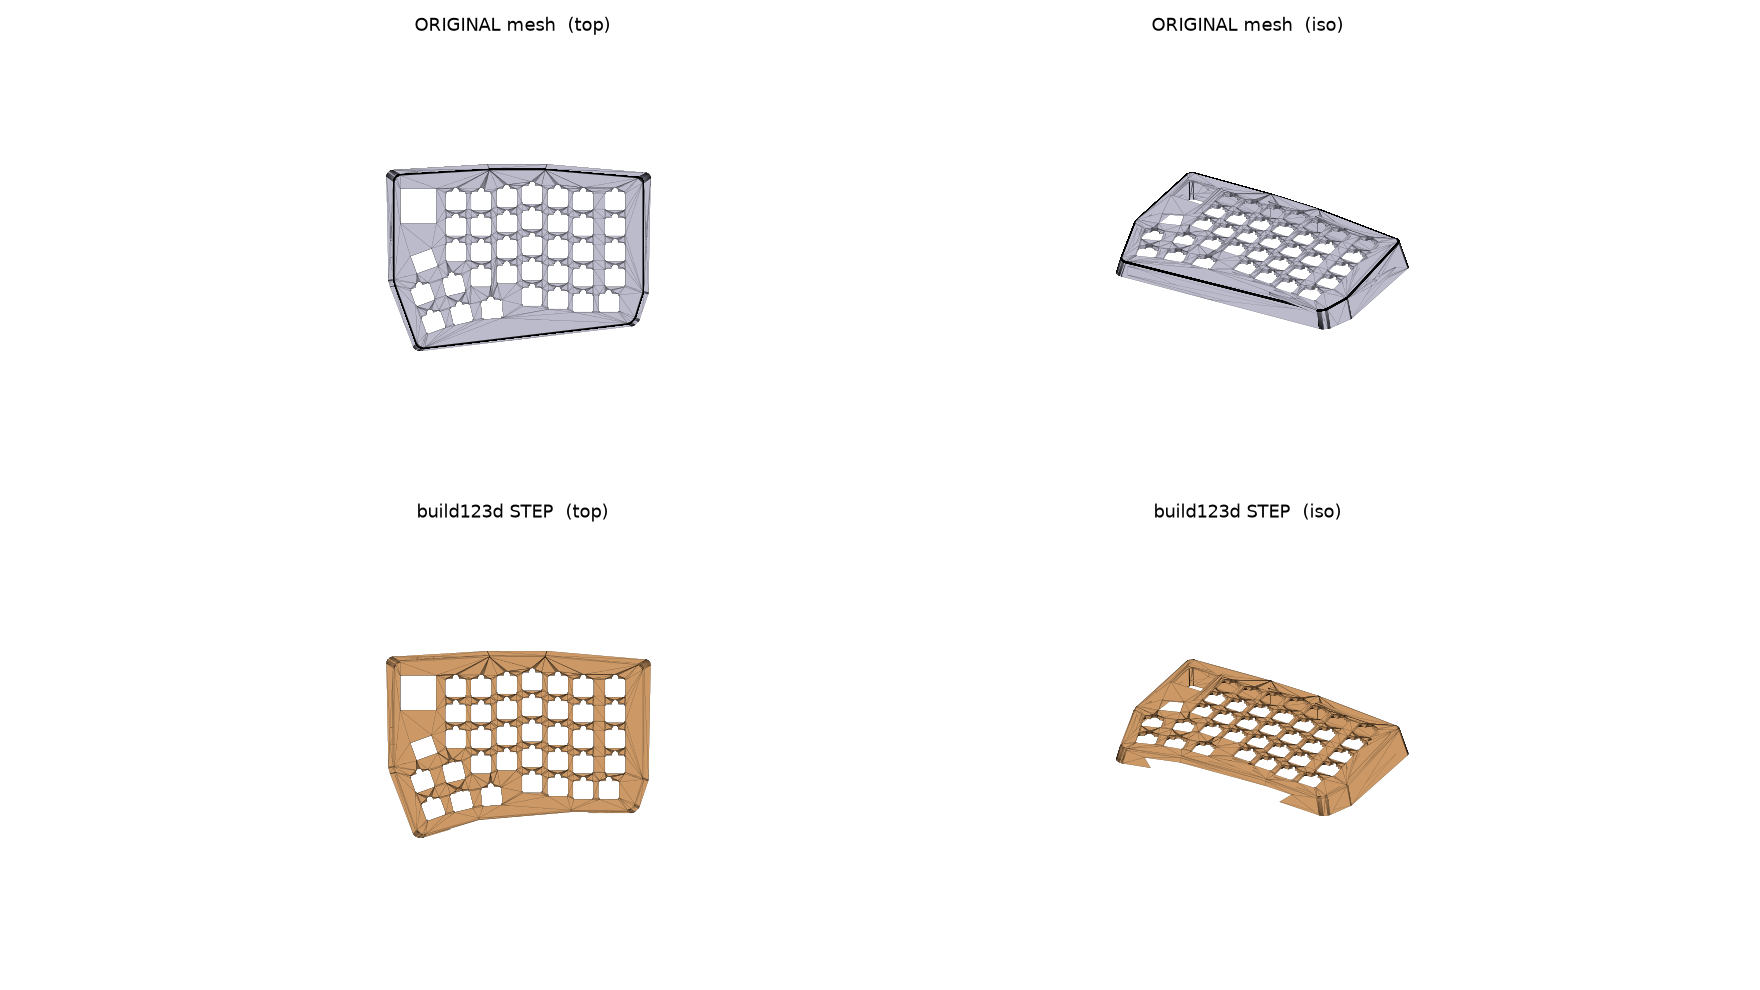
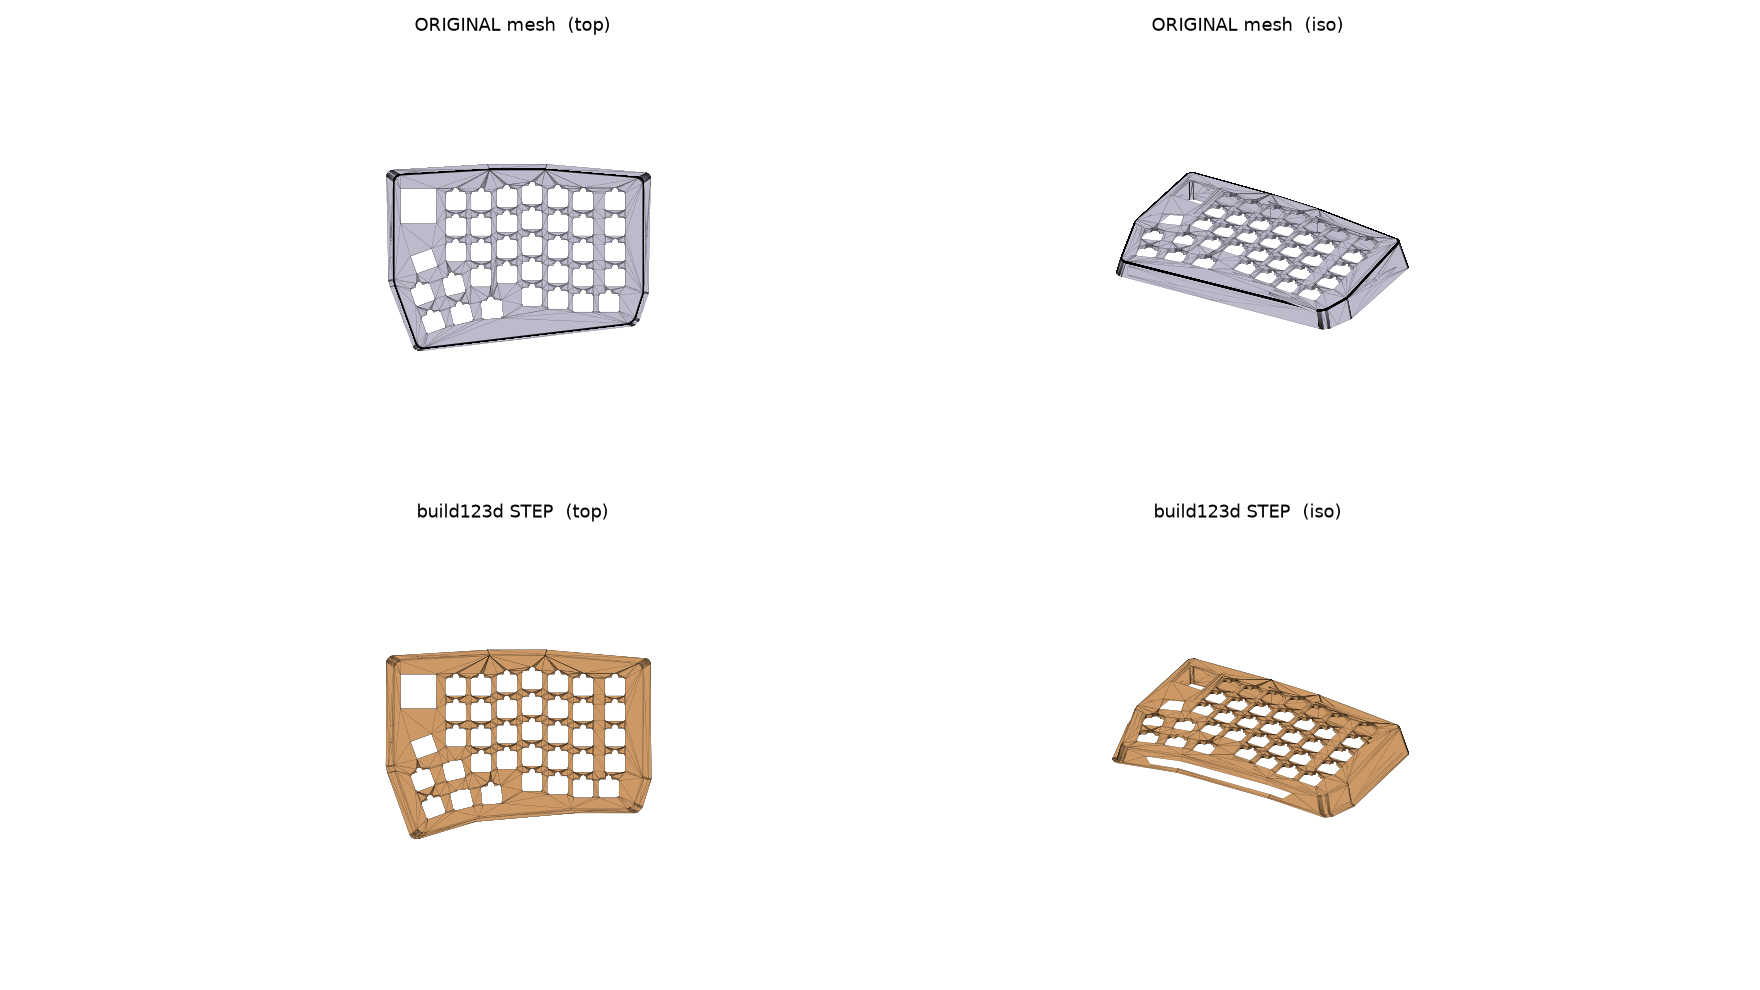
case/step: add bottom-plate rabbet (lip + inner ledge) to the STEP
Reproduces the post-processing feature present in parts/metal-case-*.step but
NOT in the .scad: around the wedge-cut bottom opening, an outer lip drops below
the wedge plane (the "small extrusion perpendicular to the cut-off") and an
inner ledge is recessed above it (the "cut-out rim") to seat a ~2 mm bottom
plate.

- case_model.py: add_bottom_rabbet() flattens the slanted wedge face, extrudes
  the outer-wall silhouette band down (LIP_DROP) for the lip and recesses the
  inner region up (RABBET_UP) for the ledge, then rotates back. Parametric
  (WITH_BOTTOM_RABBET / LIP_DROP / RABBET_UP / LIP_W); set False for the pure
  SCAD reproduction.
- build.py: build right once and mirror for left (avoids a second full build).
- README: document the rabbet, its measured dims, and the back-edge limitation.

Verified vs the reference: lip bottom -7.18 (ref -7.19), height 25.68 mm
(ref 26.05). Both sides validate PASS (valid B-Rep, 458 curved faces, 3e-7 mm
tolerance, 1324 faces).

Claude-Session: https://claude.ai/code/session_015tyAeCRWQVAqgwYfPjdQFr

Changed region(s): [[0.2188, 0.6364, 0.375, 0.8485], [0.625, 0.6667, 0.8125, 0.8182]]

diff --git a/case/step/case_model.py b/case/step/case_model.py
@@ -6,7 +6,8 @@ Only the ACTIVE geometry of right_side_modular() is reproduced (the large
 commented-out FDM block is not part of the metal case).  hull()->loft,
 offset(r=)->real 2D offsets with arc joints (true cylinder corners).
 """
-import contextlib, io
+import contextlib, io, math
+import numpy as np
 from build123d import *
 
 # ---- parameters (from the SCAD header) ----------------------------------
@@ -16,6 +17,18 @@ FLOOR    = 2.0
 CLEAR    = 0.15
 PCB_EDGE_H = 9.5
 X_SHIFT  = 5.0          # main(): translate([5,0,0]) right_case()
+
+# ---- bottom-plate rabbet (POST-PROCESSING feature, NOT in the .scad) -----
+# The reference parts/metal-case-*.step adds, around the wedge-cut bottom opening,
+# a rabbet that seats a bottom plate: the outer wall extends LIP_DROP below the
+# wedge plane (the "small extrusion perpendicular to the cut-off") and an inner
+# ledge sits RABBET_UP above it (the "cut-out rim"), giving a LIP_DROP+RABBET_UP
+# (~2 mm) pocket for the plate.  Measured from the reference (mine frame): wedge
+# bottom -6.21, lip bottom -7.19, ledge -5.1.  All parametric — edit freely.
+WITH_BOTTOM_RABBET = True
+LIP_DROP  = 1.0         # how far the outer lip drops below the wedge plane
+RABBET_UP = 1.0         # how far the inner ledge is recessed above the wedge plane
+LIP_W     = 4.0         # width of the outer lip band
 
 SVG = lambda n: "../" + n
 
@@ -149,7 +162,61 @@ def build_right():
     holes = Compound(led + swf + usb).moved(Location((-92, -72, 1)))
     part = part - holes
 
-    return part.moved(Location((X_SHIFT, 0, 0)))   # main(): translate([5,0,0])
+    part = part.moved(Location((X_SHIFT, 0, 0)))   # main(): translate([5,0,0])
+    if WITH_BOTTOM_RABBET:
+        part = add_bottom_rabbet(part)
+    return part
+
+
+def add_bottom_rabbet(part):
+    """Add the bottom-plate rabbet (lip + inner ledge) around the wedge-cut opening.
+
+    Works in a frame where the (slanted) wedge bottom is flattened horizontal, so the
+    lip/ledge are simple vertical extrudes, then rotates back. The tool footprint is
+    the clean outer-wall silhouette (scale 1.08 pcb_shape); the outer wall is close to
+    vertical near the bottom so this tracks the real opening on the low/front edge (the
+    primary plate seat). Returns the part unchanged on any failure.
+    """
+    try:
+        # locate the wedge bottom face (lowest downward-facing planar face)
+        best = None
+        for f in part.faces():
+            try:
+                n = f.normal_at()
+            except Exception:
+                continue
+            if n.Z < -0.3:
+                z = f.bounding_box().min.Z
+                if best is None or z < best[0]:
+                    best = (z, f, n)
+        if best is None:
+            return part
+        _, _, bn = best
+        t = np.array([0, 0, -1.0]); n = np.array([bn.X, bn.Y, bn.Z]); n = n / np.linalg.norm(n)
+        axv = np.cross(n, t); s = np.linalg.norm(axv)
+        ang = math.degrees(math.atan2(s, n @ t))
+        axv = axv / s if s > 1e-9 else np.array([1.0, 0, 0])
+        Rax = Axis((0, 0, 0), tuple(axv))
+        p = part.rotate(Rax, ang)                    # flatten the wedge plane
+        z0 = min(f.bounding_box().min.Z for f in p.faces()
+                 if (lambda nn: nn is not None and nn.Z < -0.3)(_safe_normal(f)))
+        outer = scale(pcb_shape_face(0.0), by=1.08).moved(Location((X_SHIFT, 0, z0)))
+        inner = offset(outer, amount=-LIP_W, kind=Kind.ARC)
+        band = outer - inner
+        lip = extrude(band, amount=-LIP_DROP)                              # outer lip, down
+        rab = extrude(inner.moved(Location((0, 0, -0.05))), amount=RABBET_UP + 0.05)  # ledge, up
+        p = (p + lip) - rab
+        return p.rotate(Rax, -ang)                    # rotate back
+    except Exception as e:
+        print("add_bottom_rabbet skipped:", e)
+        return part
+
+
+def _safe_normal(f):
+    try:
+        return f.normal_at()
+    except Exception:
+        return None
 
 def build_left():
     return build_right().mirror(Plane.YZ)

diff --git a/case/step/build.py b/case/step/build.py
@@ -13,21 +13,26 @@ try:
 except Exception:
     pass
 
-from build123d import export_step, export_stl
+from build123d import export_step, export_stl, Plane
 import case_model as cm
 
+def _report(name, part, dt):
+    bb = part.bounding_box()
+    print(f"[{name}] {dt:.1f}s  faces={len(part.faces())}  vol={part.volume:.0f}  "
+          f"bbox=({bb.min.X:.2f},{bb.min.Y:.2f},{bb.min.Z:.2f})"
+          f"..({bb.max.X:.2f},{bb.max.Y:.2f},{bb.max.Z:.2f})")
+    export_step(part, f"metal-case-{name}.step")
+    export_stl(part, f"metal-case-{name}.stl", tolerance=0.05, angular_tolerance=0.2)
+    print(f"[{name}] wrote metal-case-{name}.step / .stl")
+
 def main():
-    for name, fn in (("right", cm.build_right), ("left", cm.build_left)):
-        t = time.time()
-        part = fn()
-        bb = part.bounding_box()
-        print(f"[{name}] built {time.time()-t:.1f}s  faces={len(part.faces())}  "
-              f"vol={part.volume:.0f}  bbox=({bb.min.X:.2f},{bb.min.Y:.2f},{bb.min.Z:.2f})"
-              f"..({bb.max.X:.2f},{bb.max.Y:.2f},{bb.max.Z:.2f})")
-        export_step(part, f"metal-case-{name}.step")
-        export_stl(part, f"metal-case-{name}.stl", tolerance=0.05, angular_tolerance=0.2)
-        print(f"[{name}] wrote metal-case-{name}.step / .stl")
-        del part; gc.collect()
+    t = time.time()
+    right = cm.build_right()
+    _report("right", right, time.time() - t)
+    # left = right mirrored across YZ (one source of truth; avoids a second build)
+    t = time.time()
+    left = right.mirror(Plane.YZ)
+    _report("left", left, time.time() - t)
 
 if __name__ == "__main__":
     main()

diff --git a/case/step/README.md b/case/step/README.md
@@ -37,6 +37,35 @@ part of the metal case and is not reproduced.
 | LED / SW / USB holes | per-file faces `offset`+extrude, subtracted | side/edge holes |
 | left case | `right.mirror(Plane.YZ)` | one source of truth |
 
+## Bottom-plate rabbet (POST-PROCESSING feature — not in the .scad)
+
+The reference `parts/metal-case-*.step` adds, around the wedge-cut bottom opening, a
+**rabbet that seats a bottom plate** — this was a manual post-processing step, so it is
+**not** in `case_polykybd_split72_metal.scad`. It shows up as the two things you described:
+the *"small extrusion perpendicular to the cut-off"* (an outer **lip** dropping below the
+wedge plane) plus the *"inner cut-out rim"* (a recessed **ledge** the plate rests on).
+
+`add_bottom_rabbet()` reproduces it: it flattens the slanted wedge face (rotate about X by
+the wedge angle), extrudes the outer wall silhouette band **down** `LIP_DROP` for the lip
+and recesses the inner region **up** `RABBET_UP` for the ledge (pocket = `LIP_DROP+RABBET_UP`
+≈ 2 mm = `case_bottom_thickness`), then rotates back. Parameters at the top of
+`case_model.py` — measured from the reference (mine frame): wedge bottom −6.21, lip bottom
+**−7.19**, ledge **−5.1**:
+
+```python
+WITH_BOTTOM_RABBET = True
+LIP_DROP  = 1.0    # outer lip drop below the wedge plane
+RABBET_UP = 1.0    # inner ledge recess above the wedge plane
+LIP_W     = 4.0    # outer lip band width
+```
+
+Set `WITH_BOTTOM_RABBET = False` to get the pure SCAD reproduction. **Known limitation:**
+the lip footprint uses the clean `scale(1.08)` outer silhouette, which tracks the real
+opening on the low/front edge (the primary seat) but can sit up to ~a few mm proud on the
+high/back edge where the outer wall tapers inward — tune `LIP_W`/the silhouette scale if the
+back seat matters. Verified against the reference: lip bottom −7.18 (ref −7.19), overall
+height 25.68 mm (ref 26.05).
+
 ## ⚠️ Two corrections vs. the recipe (learned from the geometry)
 
 1. **Do NOT apply the `25.4/300` (dpi) scale.** The KiCad SVGs already declare their
@@ -61,9 +90,10 @@ the document height, so the coordinates line up.
 Both sides pass:
 
 - `valid B-Rep = True`
-- **curved faces > 0** (446 — real corner cylinders + rim tori)
+- **curved faces > 0** (458 — real corner cylinders + rim tori)
 - **max edge tolerance ≈ 3e-7 mm** (vs 0.148 in the mesh export)
-- ~1283 faces (vs ~15 000 facets), bbox 200.1 × 142.9 × 24.7 mm
+- ~1324 faces (vs ~15 000 facets), bbox 200.1 × 142.9 × **25.7** mm (with the bottom
+  rabbet; **24.7** mm without it, i.e. the pure SCAD reproduction)
 
 ## Memory note
 